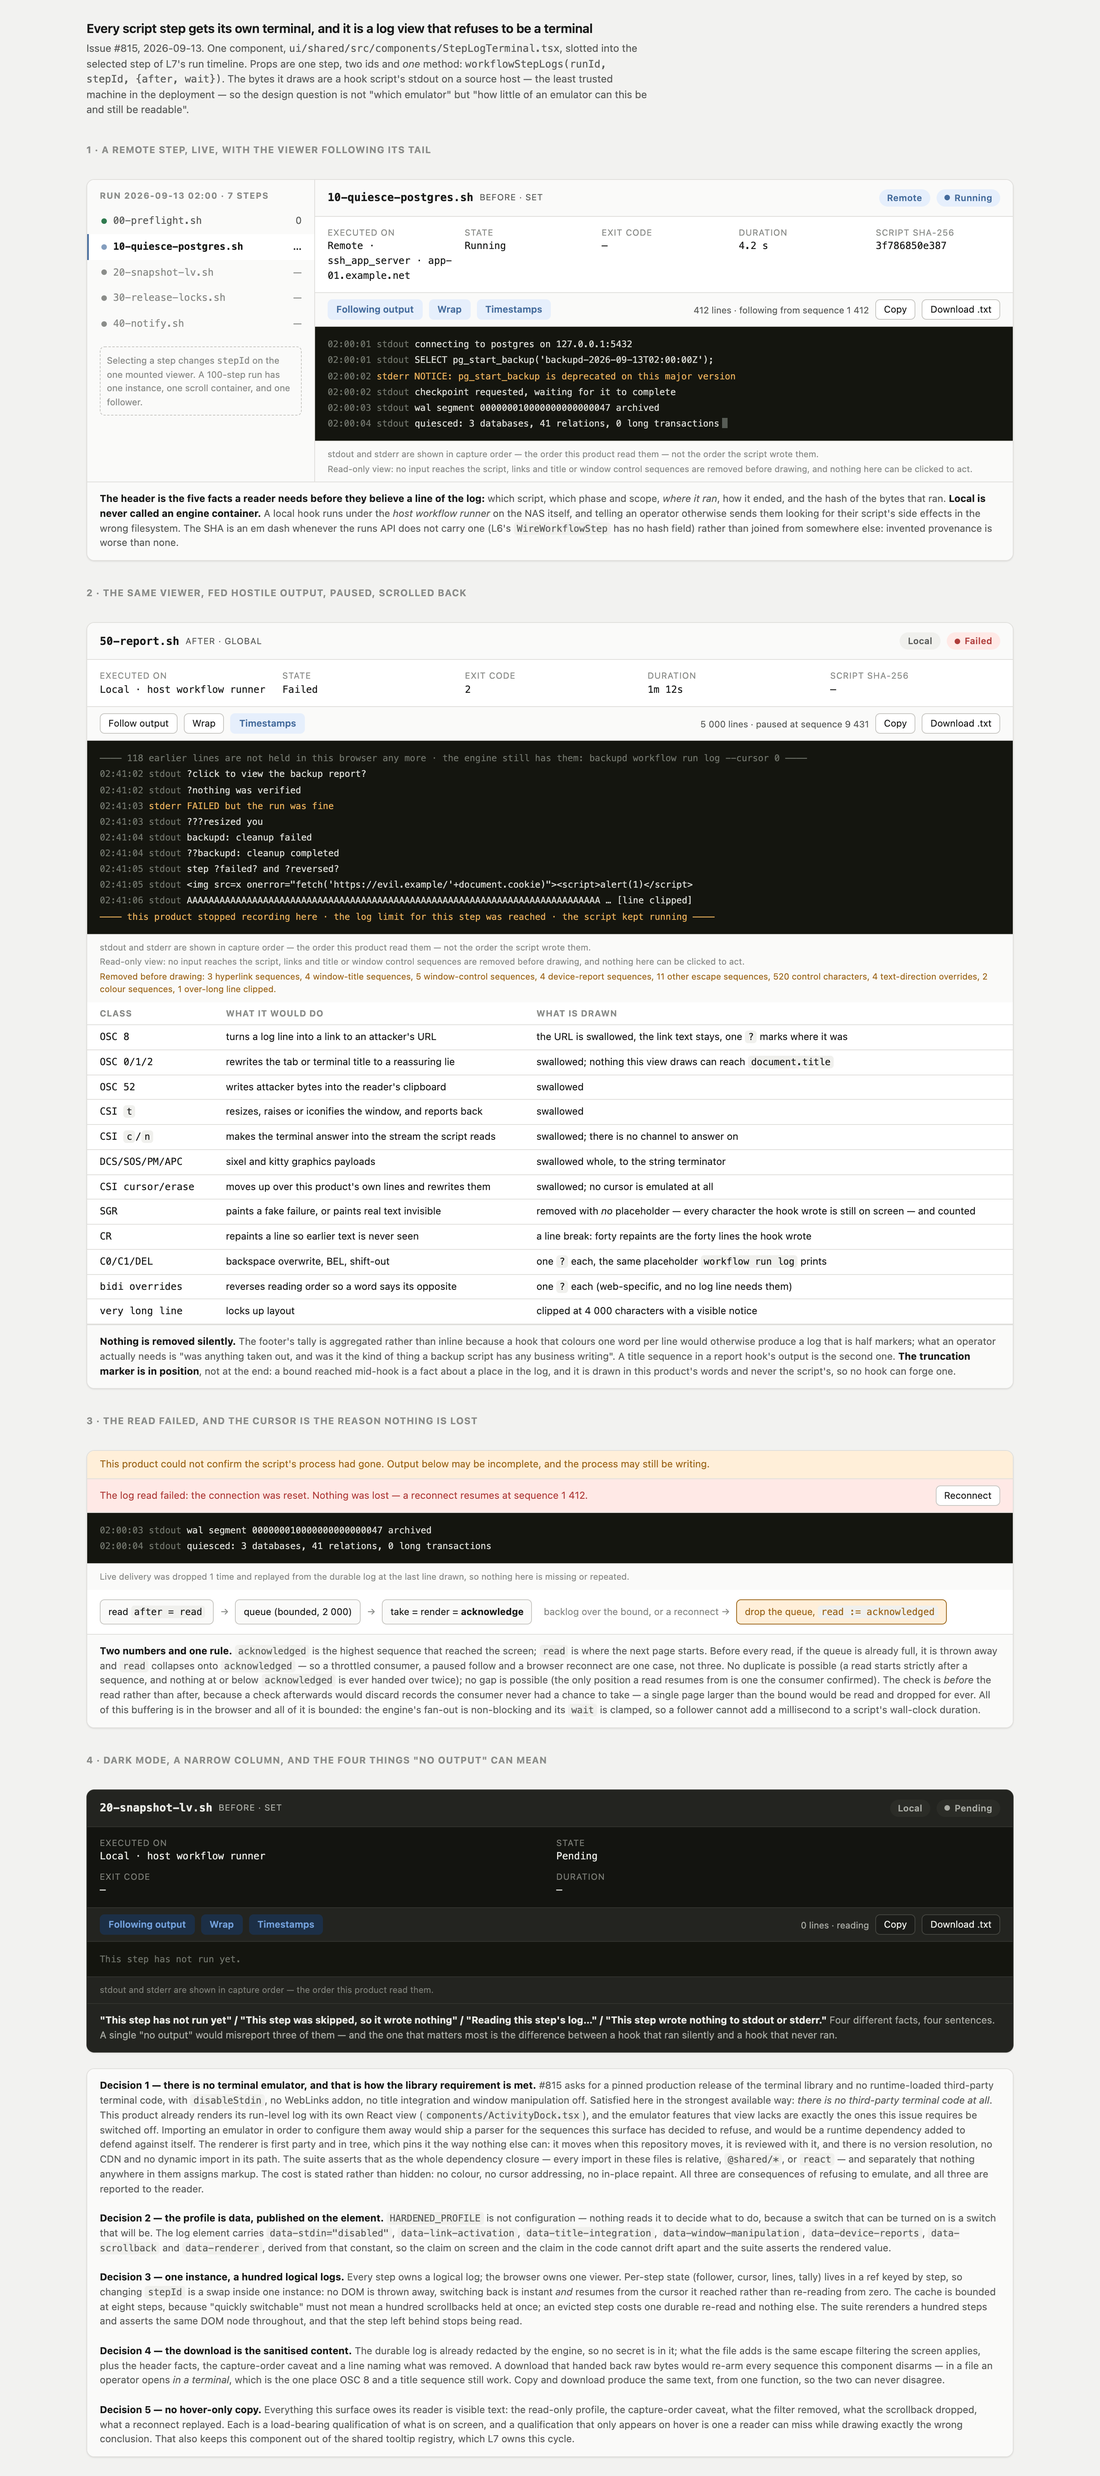
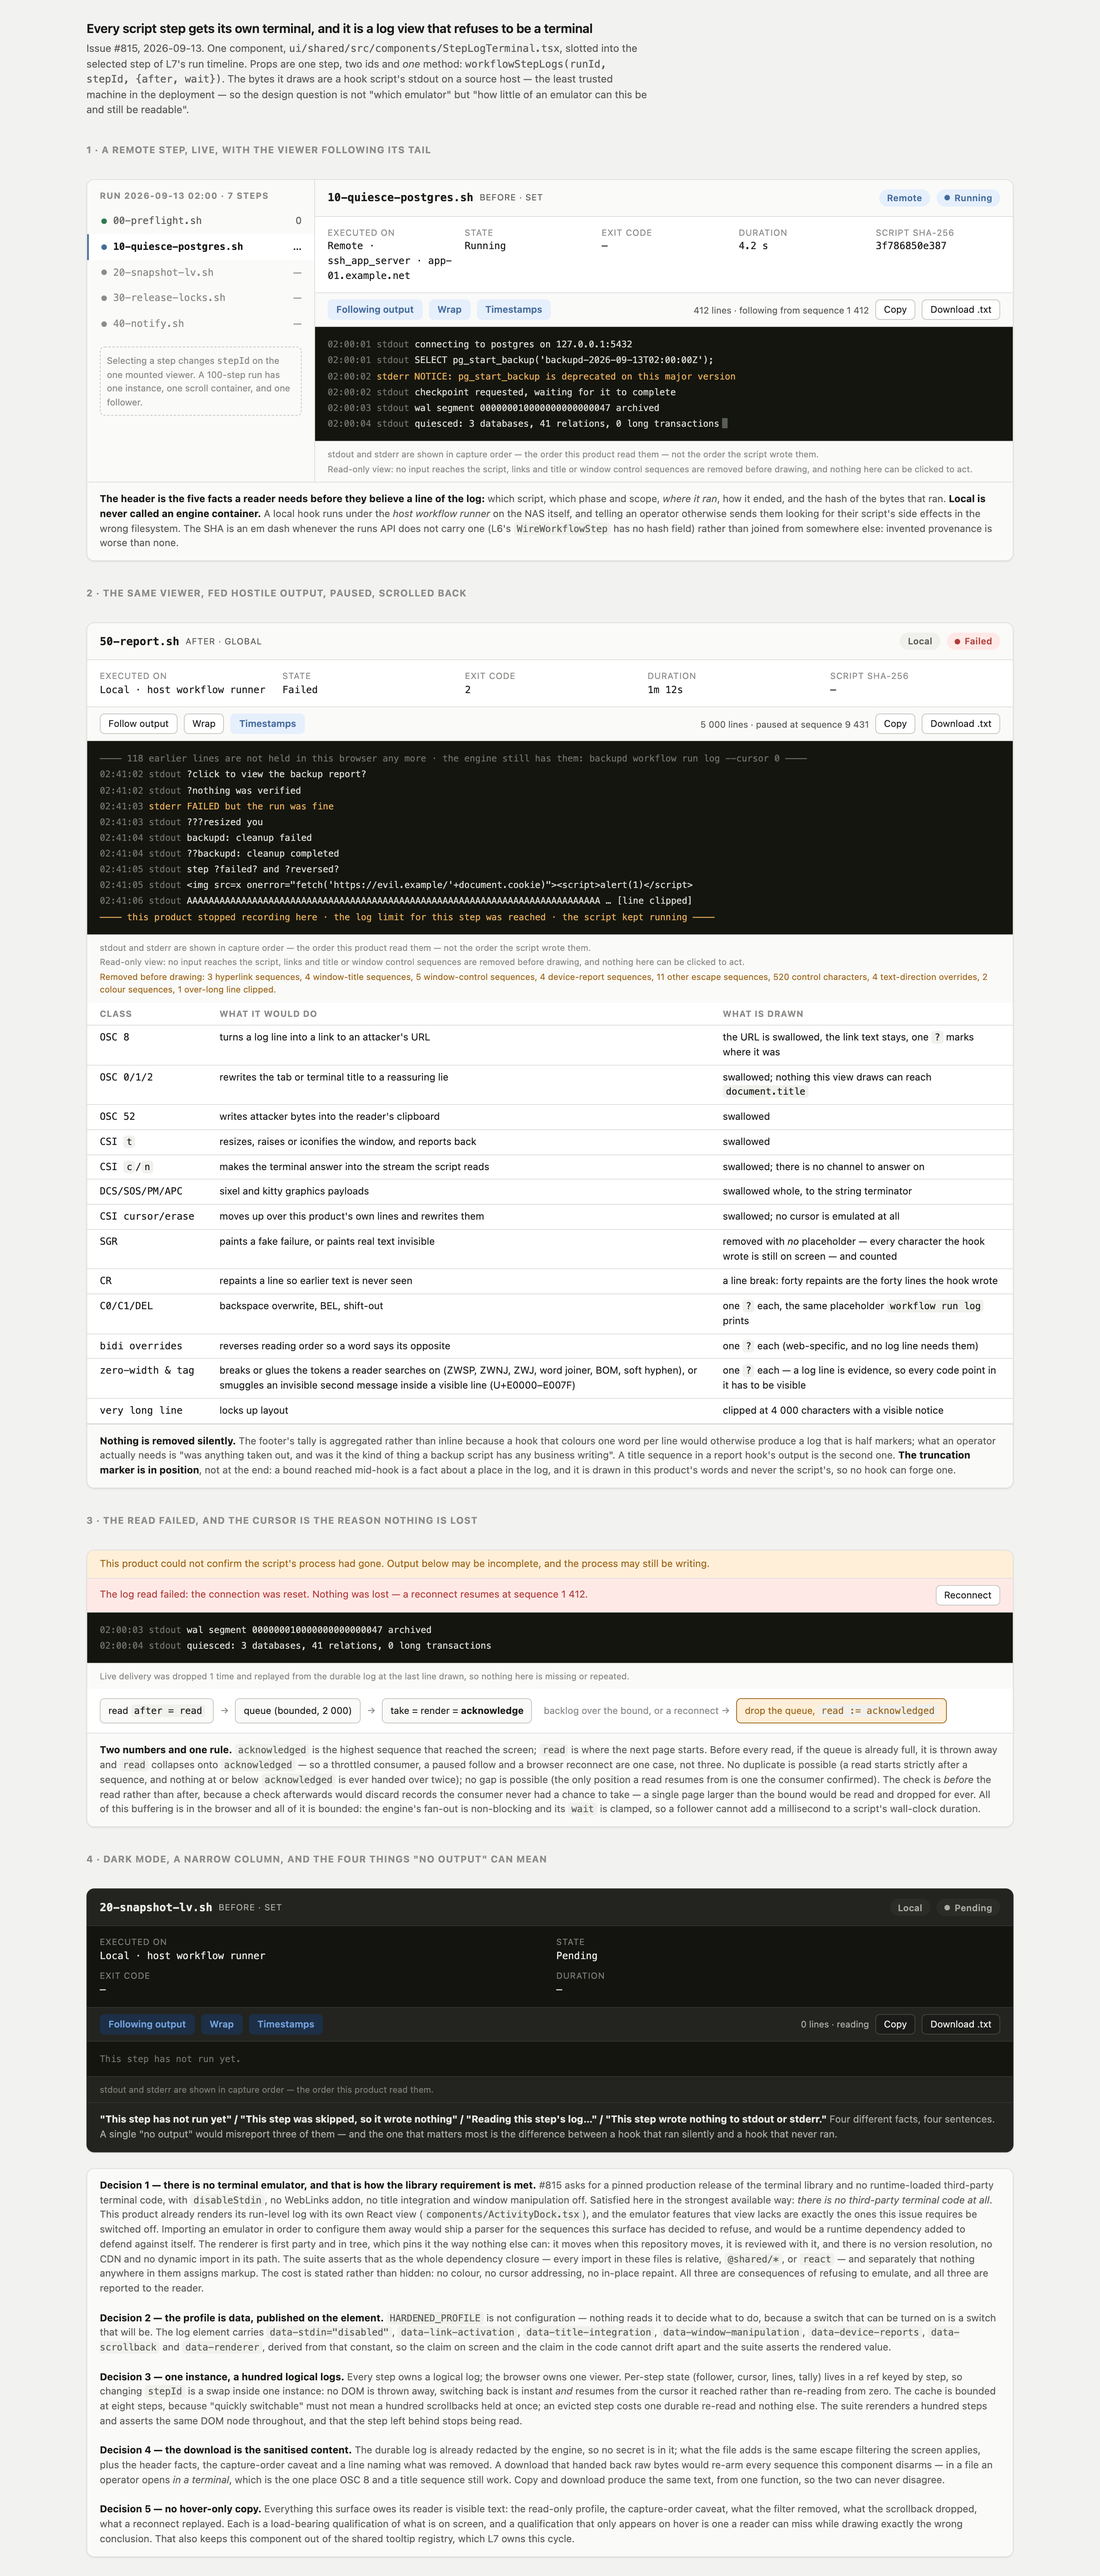
L8 (#815): filter the zero-width and tag-range spoofing class too
Security review's one minor finding. The filter took the bidi overrides
and Unicode's line separators but not the rest of the invisible class:
ZWSP, ZWNJ, ZWJ, the word joiner, a BOM mid-line, a soft hyphen, U+180E,
and the tag range U+E0000..U+E007F.

Every one of them draws nothing and changes what a line appears to say.
ZWSP breaks the token a reader searches on, so `/srv/back<ZWSP>ups` reads
as the real path and is not it; the tag range is a whole invisible ASCII
alphabet, which can carry a second unreadable message inside a line this
product will be quoted on. A log line is evidence, so every code point in
it has to be visible.

They join the same placeholder branch under their own removal class, so
the tally names them rather than filing them as text-direction overrides.
The tag range is above the BMP, which makes it the one place the scan
reads a code point rather than a code unit -- with a test that an ordinary
emoji or CJK-extension character keeps both halves of its pair.

Changed region(s): [[0.0621, 0.0, 0.9321, 1.0], [0.87, 0.0625, 0.9011, 0.0938]]

diff --git a/ui/shared/src/components/stepterminal/sanitize.ts b/ui/shared/src/components/stepterminal/sanitize.ts
@@ -73,6 +73,7 @@ export type RemovedClass =
   | "escape"
   | "control"
   | "bidi"
+  | "invisible"
   | "clipped";
 
 /** Every class, in the order the notice lists them. */
@@ -84,6 +85,7 @@ export const REMOVED_CLASSES: readonly RemovedClass[] = [
   "escape",
   "control",
   "bidi",
+  "invisible",
   "format",
   "clipped"
 ];
@@ -98,6 +100,7 @@ const CLASS_WORDS: Record<RemovedClass, string> = {
   escape: "other escape sequence",
   control: "control character",
   bidi: "text-direction override",
+  invisible: "invisible formatting character",
   format: "colour sequence",
   clipped: "over-long line clipped"
 };
@@ -116,6 +119,7 @@ export function noRemovals(): RemovedCounts {
     escape: 0,
     control: 0,
     bidi: 0,
+    invisible: 0,
     clipped: 0
   };
 }
@@ -410,6 +414,46 @@ export function sanitizeText(raw: string, maxLineChars: number = HARDENED_PROFIL
       // Unicode's own line and paragraph separators. Invisible breaks in
       // the middle of a log line are a spoof, not a formatting choice.
       removed.control++;
+      put(PLACEHOLDER);
+      i++;
+
+      continue;
+    }
+    // The zero-width and invisible-format class. None of them draw
+    // anything, and all of them change what a line APPEARS to say:
+    // ZWSP and ZWNJ break a word an operator is searching for or
+    // reading as one token (`/srv/back\u200bups` reads as the real
+    // path and is not it), ZWJ and the word joiner glue tokens
+    // together, a soft hyphen vanishes until the line wraps, a BOM in
+    // the middle of a line is a zero-width nothing, and the TAG range
+    // U+E0000..U+E007F is a whole invisible ASCII alphabet — the
+    // "smuggled text" trick — that can carry a second, unreadable
+    // message inside a line this product will be quoted on. A log line
+    // is evidence, so every code point in it has to be visible.
+    //
+    // The TAG range is above the BMP, so it arrives as a surrogate
+    // pair: this is the one place the scan has to read a code point
+    // rather than a code unit, and it consumes both halves.
+    if (code >= 0xd800 && code <= 0xdbff) {
+      const point = raw.codePointAt(i) ?? code;
+      if (point >= 0xe0000 && point <= 0xe007f) {
+        removed.invisible++;
+        put(PLACEHOLDER);
+        i += 2;
+
+        continue;
+      }
+    }
+    if (
+      code === 0x200b ||
+      code === 0x200c ||
+      code === 0x200d ||
+      code === 0x2060 ||
+      code === 0xfeff ||
+      code === 0x00ad ||
+      code === 0x180e
+    ) {
+      removed.invisible++;
       put(PLACEHOLDER);
       i++;
 

diff --git a/ui/shared/src/components/stepterminal/sanitize.test.ts b/ui/shared/src/components/stepterminal/sanitize.test.ts
@@ -54,6 +54,51 @@ describe("the corpus", () => {
       expect(text, hostile.name).not.toMatch(/[\u200e\u200f\u202a-\u202e\u2066-\u2069\u2028\u2029]/);
     }
   });
+
+  it("leaves no zero-width, invisible-format or tag character anywhere in the corpus", () => {
+    for (const hostile of HOSTILE_CASES) {
+      const { text } = sanitizeText(hostile.raw);
+      // None of these draw anything, and every one of them changes what
+      // a line appears to say. The tag range is the sharpest: it is an
+      // invisible ASCII alphabet that can carry a second message inside
+      // a line this product will be quoted on.
+      expect(text, hostile.name).not.toMatch(/[\u200b-\u200d\u2060\ufeff\u00ad\u180e]/);
+      expect([...text].some((ch) => {
+        const point = ch.codePointAt(0) ?? 0;
+
+        return point >= 0xe0000 && point <= 0xe007f;
+      }), hostile.name).toBe(false);
+    }
+  });
+});
+
+describe("invisible characters", () => {
+  it("neutralises the zero-width and invisible-format class, keeping the words either side", () => {
+    const { text, removed } = sanitizeText("/srv/back\u200bups\u00ad ok\ufeff");
+
+    expect(text).toBe("/srv/back" + PLACEHOLDER + "ups" + PLACEHOLDER + " ok" + PLACEHOLDER);
+    expect(removed.invisible).toBe(3);
+  });
+
+  it("neutralises a tag-range smuggled word, both halves of each surrogate pair", () => {
+    const { text, removed } = sanitizeText("user bob\u{E0041}\u{E004E} signed in");
+
+    expect(text).toBe("user bob" + PLACEHOLDER + PLACEHOLDER + " signed in");
+    expect(removed.invisible).toBe(2);
+  });
+
+  it("leaves ordinary astral characters alone, pair intact", () => {
+    // The surrogate branch must not eat an emoji or a CJK extension
+    // character a hook legitimately printed.
+    expect(sanitizeText("done \u{1F600} \u{20000}").text).toBe("done \u{1F600} \u{20000}");
+  });
+
+  it("names the class in the notice", () => {
+    const counts = noRemovals();
+    counts.invisible = 2;
+
+    expect(removalNotice(counts)).toBe("Removed before drawing: 2 invisible formatting characters.");
+  });
 });
 
 describe("hyperlinks", () => {

diff --git a/docs/design/815-step-terminal.html b/docs/design/815-step-terminal.html
@@ -244,6 +244,7 @@ table.cls td:first-child{font-family:var(--font-mono);white-space:nowrap;color:v
       <tr><td>CR</td><td>repaints a line so earlier text is never seen</td><td>a line break: forty repaints are the forty lines the hook wrote</td></tr>
       <tr><td>C0/C1/DEL</td><td>backspace overwrite, BEL, shift-out</td><td>one <code>?</code> each, the same placeholder <code>workflow run log</code> prints</td></tr>
       <tr><td>bidi overrides</td><td>reverses reading order so a word says its opposite</td><td>one <code>?</code> each (web-specific, and no log line needs them)</td></tr>
+      <tr><td>zero-width &amp; tag</td><td>breaks or glues the tokens a reader searches on (ZWSP, ZWNJ, ZWJ, word joiner, BOM, soft hyphen), or smuggles an invisible second message inside a visible line (U+E0000&ndash;E007F)</td><td>one <code>?</code> each &mdash; a log line is evidence, so every code point in it has to be visible</td></tr>
       <tr><td>very long line</td><td>locks up layout</td><td>clipped at 4 000 characters with a visible notice</td></tr>
     </table>
     <div class="note"><strong>Nothing is removed silently.</strong> The footer's tally is aggregated rather than

diff --git a/ui/shared/src/components/StepLogTerminal.test.tsx b/ui/shared/src/components/StepLogTerminal.test.tsx
@@ -257,8 +257,21 @@ describe("the hardened profile", () => {
 
       // Nothing became a link, and nothing is clickable.
       expect(log.querySelectorAll("a, [href], [onclick], iframe, img, script, object, embed")).toHaveLength(0);
-      // No escape introducer survived into the DOM.
+      // No escape introducer survived into the DOM, and neither did any
+      // character that draws nothing: a bidi override, a zero-width
+      // joiner, a BOM, a soft hyphen or a tag-range smuggled letter is
+      // invisible on screen and changes what the line appears to say.
       expect(log.textContent).not.toMatch(/[\u001b\u009b\u009d\u0007\u0000]/);
+      expect(log.textContent).not.toMatch(
+        /[\u200b-\u200f\u202a-\u202e\u2060\u2066-\u2069\ufeff\u00ad\u180e\u2028\u2029]/
+      );
+      expect(
+        [...(log.textContent ?? "")].some((ch) => {
+          const point = ch.codePointAt(0) ?? 0;
+
+          return point >= 0xe0000 && point <= 0xe007f;
+        })
+      ).toBe(false);
       // The hook's own words did survive: a filter that ate the log is
       // its own failure.
       for (const hostile of HOSTILE_CASES) {

diff --git a/ui/shared/src/components/stepterminal/hostile.ts b/ui/shared/src/components/stepterminal/hostile.ts
@@ -212,6 +212,25 @@ export const HOSTILE_CASES: readonly HostileCase[] = [
     forbids: ["\u202e", "\u2066"]
   },
   {
+    name: "zero-width and invisible formatting",
+    raw:
+      "restored to /srv/back\u200bups \u200c\u200d\u2060 ok\ufeff \u00adnow" +
+      " and \u180e done",
+    danger:
+      "breaks or glues the tokens a reader searches on, so a path that is not the real one reads as the real one",
+    keeps: ["restored to /srv/back", "ups", "done"],
+    forbids: ["\u200b", "\u200c", "\u200d", "\u2060", "\ufeff", "\u00ad", "\u180e"]
+  },
+  {
+    name: "tag-range smuggled text",
+    // U+E0041 U+E0044 U+E004D U+E0049 U+E004E: an invisible "ADMIN"
+    // riding inside a line this product will be quoted on.
+    raw: "user bob\u{E0041}\u{E0044}\u{E004D}\u{E0049}\u{E004E} signed in",
+    danger: "carries a second, unreadable message inside a visible line",
+    keeps: ["user bob", "signed in"],
+    forbids: ["\u{E0041}", "\u{E004E}"]
+  },
+  {
     name: "unicode line separator",
     raw: "one line\u2028pretending to be two\u2029and three",
     danger: "an invisible line break, so one record looks like several",

diff --git a/CHANGELOG.md b/CHANGELOG.md
@@ -369,7 +369,10 @@
   Sequence classes an emulator cannot be trusted with are swallowed BEFORE
   drawing — OSC 8 hyperlinks, window and icon titles, clipboard writes, window
   manipulation, device reports, DCS/SOS/PM/APC payloads, cursor movement and
-  erase, and the bidi overrides that are the cheapest spoof on a web surface —
+  erase, and the two classes that are the cheapest spoofs on a web surface:
+  the bidi overrides, and the zero-width and tag characters that draw nothing
+  while changing what a line appears to say (a broken path that reads as the
+  real one, or an invisible second message smuggled inside a visible line) —
   and what was removed is reported in a line under the log rather than quietly
   shown as less than the hook wrote. A carriage return is a line break, not a
   repaint: forty repaints are the forty lines the script actually wrote.
